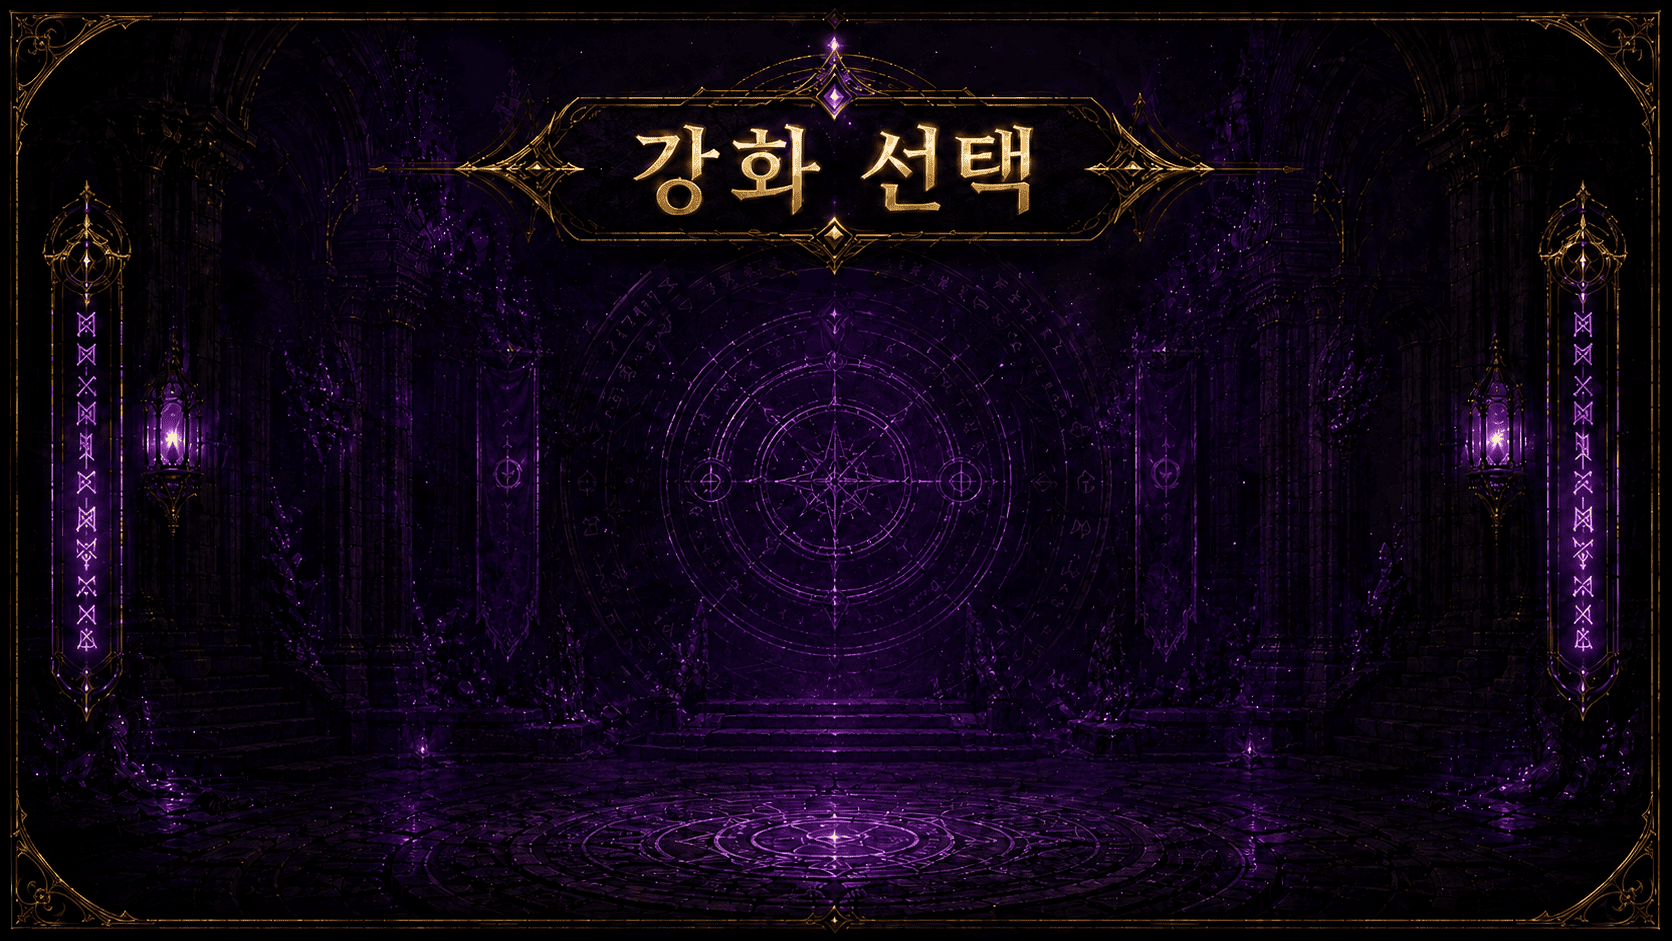
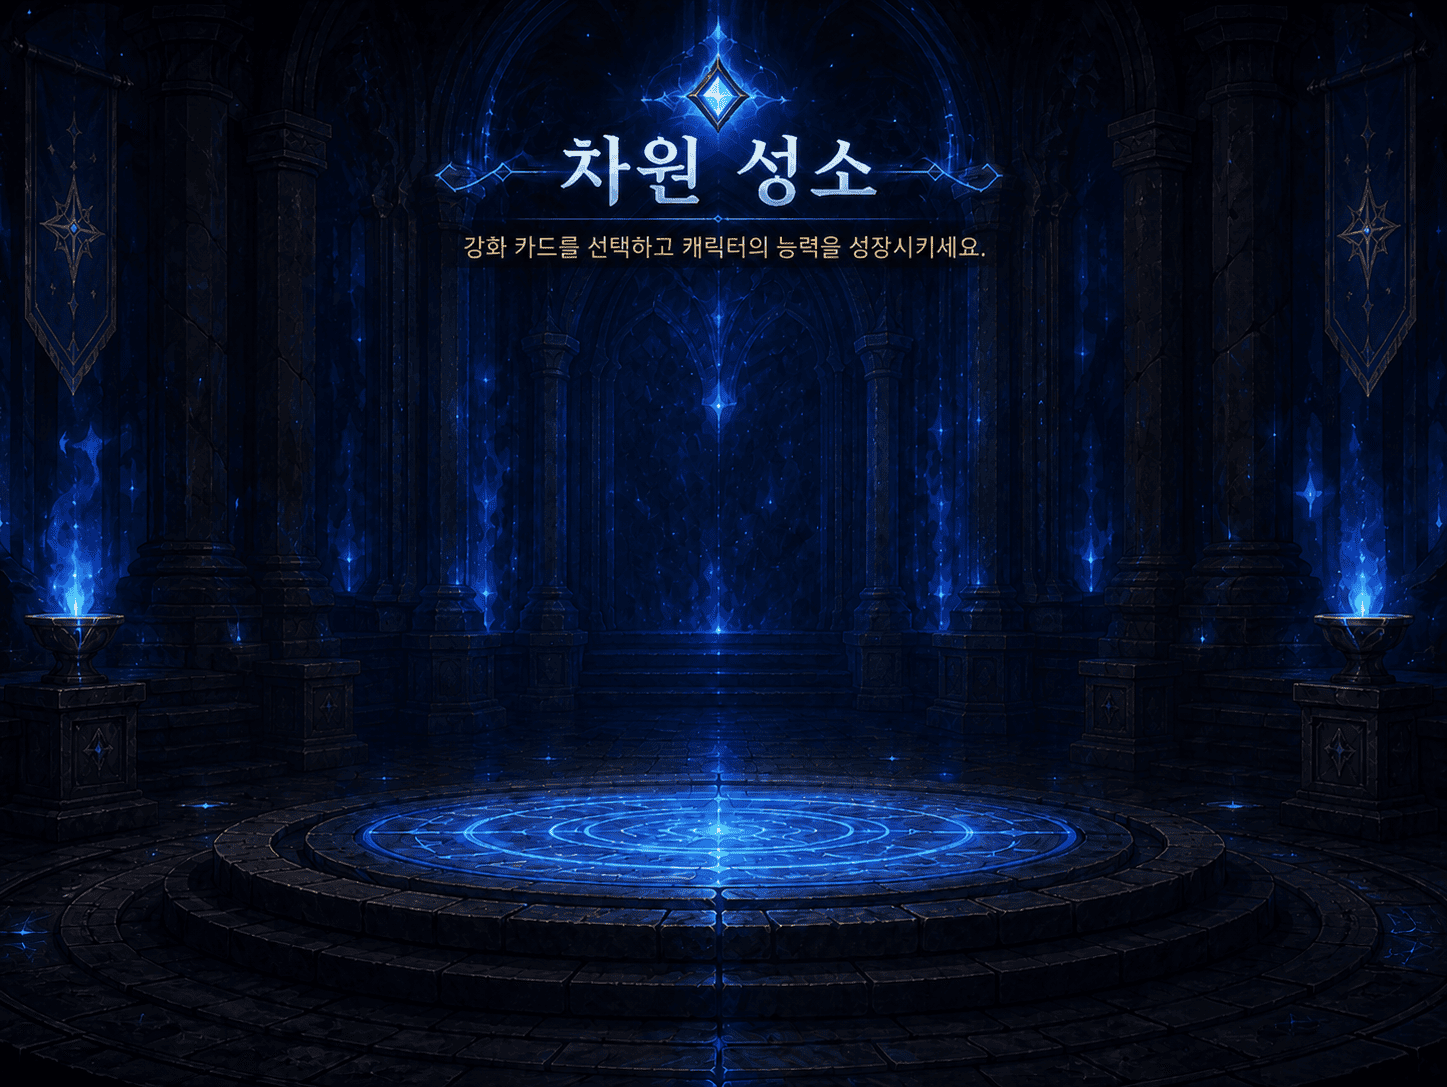
monster response

diff --git a/src/game/systems.ts b/src/game/systems.ts
@@ -2,7 +2,7 @@ import { upgrades } from '../content';
 import { playSound } from '../soundSystem';
 import { getCamera, getWorldView } from './camera';
 import { clamp, norm } from './math';
-import type { GameState, Upgrade, Vec } from './types';
+import type { EnemyKind, GameState, Upgrade, Vec } from './types';
 
 export function pickUpgrades(game: GameState) {
   game.upgrades = [...upgrades].sort(() => Math.random() - 0.5).slice(0, 3);
@@ -87,14 +87,21 @@ function spawnEnemy(game: GameState) {
   pos.x = clamp(pos.x, -game.mapWidth / 2 + 24, game.mapWidth / 2 - 24);
   pos.y = clamp(pos.y, -game.mapHeight / 2 + 24, game.mapHeight / 2 - 24);
   const stagePower = game.stage - 1 + game.stageTime / game.stageDuration;
+  const kind: EnemyKind = game.stage > 1 && Math.random() < 0.25 ? 'goblin' : 'slime';
+  const slimeHp = 28 + stagePower * 8;
+  const slimeSpeed = 88 + stagePower * 7;
+  const slimeDamage = 12 + game.time * 0.12;
+  const isGoblin = kind === 'goblin';
   game.enemies.push({
     id: game.nextId++,
     x: pos.x,
     y: pos.y,
-    r: 13,
-    hp: 28 + stagePower * 8,
-    speed: 88 + stagePower * 7,
-    kind: 'slime',
+    r: isGoblin ? 15 : 13,
+    hp: isGoblin ? slimeHp * 2 : slimeHp,
+    speed: isGoblin ? slimeSpeed * 0.8 : slimeSpeed,
+    damage: isGoblin ? slimeDamage * 1.5 : slimeDamage,
+    gemDrops: isGoblin ? 2 : 1,
+    kind,
   });
 }
 
@@ -171,7 +178,9 @@ export function updateGame(game: GameState, dt: number, inputVector: () => Vec) 
   game.player.y = clamp(game.player.y, -game.mapHeight / 2 + game.player.r, game.mapHeight / 2 - game.player.r);
 
   game.spawnClock -= dt;
-  const spawnDelay = Math.max(0.16, 0.76 - (game.stage - 1) * 0.06 - game.stageTime * 0.002);
+  const stageSpawnGrowth = Math.pow(1.05, game.stage - 1);
+  const baselineSpawnDelay = 1.0857 - game.stageTime * 0.002;
+  const spawnDelay = Math.max(0.16, baselineSpawnDelay / stageSpawnGrowth);
   while (game.spawnClock <= 0) {
     spawnEnemy(game);
     game.spawnClock += spawnDelay;
@@ -188,7 +197,7 @@ export function updateGame(game: GameState, dt: number, inputVector: () => Vec) 
     enemy.x += toPlayer.x * enemy.speed * dt;
     enemy.y += toPlayer.y * enemy.speed * dt;
     if (Math.hypot(enemy.x - game.player.x, enemy.y - game.player.y) < enemy.r + game.player.r) {
-      game.player.hp -= (12 + game.time * 0.12) * dt * game.player.damageTakenMultiplier;
+      game.player.hp -= enemy.damage * dt * game.player.damageTakenMultiplier;
       enemy.x -= toPlayer.x * 18 * dt;
       enemy.y -= toPlayer.y * 18 * dt;
     }
@@ -216,8 +225,17 @@ export function updateGame(game: GameState, dt: number, inputVector: () => Vec) 
         }
         playSound('hit');
         if (enemy.hp <= 0) {
-          game.gems.push({ x: enemy.x, y: enemy.y, value: 4, r: 5 });
-          game.texts.push({ x: enemy.x, y: enemy.y, text: '+1', life: 0.7, color: '#9ee8ff' });
+          for (let i = 0; i < enemy.gemDrops; i += 1) {
+            const angle = (Math.PI * 2 * i) / enemy.gemDrops + enemy.id * 0.73;
+            const distance = enemy.gemDrops === 1 ? 0 : 12;
+            game.gems.push({
+              x: enemy.x + Math.cos(angle) * distance,
+              y: enemy.y + Math.sin(angle) * distance,
+              value: 4,
+              r: 5,
+            });
+          }
+          game.texts.push({ x: enemy.x, y: enemy.y, text: `+${enemy.gemDrops}`, life: 0.7, color: '#9ee8ff' });
         }
         break;
       }

diff --git a/src/main.tsx b/src/main.tsx
@@ -47,6 +47,8 @@ const forestProps = new Image();
 forestProps.src = 'assets/images/maps/forest/props/forest-props.png';
 const forestSlimeAtlas = new Image();
 forestSlimeAtlas.src = 'assets/images/enemies/forest-slime-2dir.png';
+const forestGoblinAtlas = new Image();
+forestGoblinAtlas.src = 'assets/images/enemies/forest-goblin-2dir.png';
 const xpGemImage = new Image();
 xpGemImage.src = 'assets/images/items/gems/xp-gem-small.png';
 
@@ -335,6 +337,34 @@ function drawMagicBolt(ctx: CanvasRenderingContext2D, bullet: Bullet) {
 }
 
 function drawEnemy(ctx: CanvasRenderingContext2D, enemy: Enemy, game: GameState) {
+  if (enemy.kind === 'goblin' && forestGoblinAtlas.complete && forestGoblinAtlas.naturalWidth > 0) {
+    const columns = 4;
+    const rows = 2;
+    const sourceWidth = forestGoblinAtlas.naturalWidth / columns;
+    const sourceHeight = forestGoblinAtlas.naturalHeight / rows;
+    const frame = Math.floor(game.time * 6 + enemy.id * 0.31) % columns;
+    const row = enemy.x > game.player.x ? 1 : 0;
+    const drawWidth = 72;
+    const drawHeight = 72 + Math.sin(game.time * 10 + enemy.id) * 1.5;
+
+    ctx.fillStyle = 'rgba(0, 0, 0, 0.28)';
+    ctx.beginPath();
+    ctx.ellipse(enemy.x, enemy.y + 15, 24, 7, 0, 0, Math.PI * 2);
+    ctx.fill();
+    ctx.drawImage(
+      forestGoblinAtlas,
+      Math.floor(frame * sourceWidth),
+      Math.floor(row * sourceHeight),
+      Math.ceil(sourceWidth),
+      Math.ceil(sourceHeight),
+      enemy.x - drawWidth / 2,
+      enemy.y - drawHeight * 0.78,
+      drawWidth,
+      drawHeight,
+    );
+    return;
+  }
+
   if (forestSlimeAtlas.complete && forestSlimeAtlas.naturalWidth > 0) {
     const columns = 4;
     const rows = 2;

diff --git a/src/game/types.ts b/src/game/types.ts
@@ -1,8 +1,18 @@
 export type Vec = { x: number; y: number };
 
-export type EnemyKind = 'slime';
+export type EnemyKind = 'slime' | 'goblin';
 
-export type Enemy = { id: number; x: number; y: number; r: number; hp: number; speed: number; kind: EnemyKind };
+export type Enemy = {
+  id: number;
+  x: number;
+  y: number;
+  r: number;
+  hp: number;
+  speed: number;
+  damage: number;
+  gemDrops: number;
+  kind: EnemyKind;
+};
 
 export type Bullet = {
   x: number;

diff --git a/docs/balance.md b/docs/balance.md
@@ -125,6 +125,19 @@ Use this section as the baseline when the user asks to raise, lower, speed up, s
 | Contact pushback | `18 * dt` | `src/game/systems.ts` | Small separation push while touching player. |
 | Defense | None | Current design | Enemies currently do not have armor or damage reduction. |
 
+### Enemy: Goblin
+
+| Value | Current Value | Code Location | Notes |
+| --- | ---: | --- | --- |
+| Enemy ID | `goblin` | `src/game/types.ts`, `src/game/systems.ts` | Appears from stage 2 onward. |
+| Spawn ratio | `1 goblin : 3 slimes` | `src/game/systems.ts` | Implemented as a 25% goblin chance from stage 2 onward. |
+| Collision radius | `15` | `src/game/systems.ts` | Slightly larger than slime. |
+| HP | `slime HP * 2` | `src/game/systems.ts` | Uses the current scaled slime HP. |
+| Movement speed | `slime speed * 0.8` | `src/game/systems.ts` | Slower than slime. |
+| Contact damage | `slime damage * 1.5` | `src/game/systems.ts` | Higher than slime. |
+| Gem drop count | `2` | `src/game/systems.ts` | Drops two XP/currency gems when defeated. |
+| Defense | None | Current design | Enemies currently do not have armor or damage reduction. |
+
 ### Spawning And Stage Pressure
 
 | Value | Current Value | Code Location | Notes |
@@ -134,7 +147,9 @@ Use this section as the baseline when the user asks to raise, lower, speed up, s
 | Map height | `1600` | `src/game/state.ts` | Bounded arena height. |
 | Spawn margin | `90` | `src/game/systems.ts` | Spawn attempt is just outside the camera view. |
 | Minimum spawn delay | `0.16` seconds | `src/game/systems.ts` | Spawn delay cannot go below this. |
-| Spawn delay formula | `0.76 - (stage - 1) * 0.06 - stageTime * 0.002` | `src/game/systems.ts` | Higher stages and later stage time spawn faster. |
+| Stage 1 spawn amount | `100%` current baseline | `src/game/systems.ts` | This is the baseline for future spawn-count requests. |
+| Per-stage spawn growth | `+5%` per stage | `src/game/systems.ts` | Each stage uses `1.05 ^ (stage - 1)`. |
+| Spawn delay formula | `(1.0857 - stageTime * 0.002) / (1.05 ^ (stage - 1))` | `src/game/systems.ts` | Current stage 1 pacing is now treated as the baseline. Higher spawn multiplier means shorter delay and more monsters. |
 | Enemy cleanup range | `1800` | `src/game/systems.ts` | Enemies farther than this from player are removed. |
 | Projectile cleanup range | `1300` | `src/game/systems.ts` | Projectiles farther than this from player are removed. |
 
@@ -143,6 +158,7 @@ Use this section as the baseline when the user asks to raise, lower, speed up, s
 | Value | Current Value | Code Location | Notes |
 | --- | ---: | --- | --- |
 | Gem drop count per slime | `1` | `src/game/systems.ts` | One gem object is created when a slime dies. |
+| Gem drop count per goblin | `2` | `src/game/systems.ts` | Two gem objects are created when a goblin dies. |
 | Gem XP value | `4` | `src/game/systems.ts` | Stored as gem `value`. |
 | Gem currency value | `1` | `src/game/systems.ts` | Each collected gem adds 1 upgrade currency. |
 | Gem collision radius | `5` | `src/game/systems.ts` | Gem pickup radius before adding player radius. |

diff --git a/docs/content.md b/docs/content.md
@@ -3,7 +3,7 @@
 ## Current Content
 - Character: `caiden`
 - Weapon: `magic-staff`
-- Enemy kind: `slime`
+- Enemy kinds: `slime`, `goblin`
 - Map theme: forest
 - Item: `xp-gem-small`
 - Save mode: local test by default, optional Supabase cloud save through security settings.
@@ -35,8 +35,19 @@ When adding a weapon, update:
 ## Enemies
 Current enemy type:
 - `slime`: Basic chasing enemy.
+- `goblin`: Slower but tougher forest enemy. Appears from stage 2 onward.
 
-Current slime drop:
+Current enemy drops:
+- `slime`: Drops 1 `xp-gem-small`.
+- `goblin`: Drops 2 `xp-gem-small`.
+
+Current enemy spawn rules:
+- Stage 1 only spawns slimes.
+- From stage 2 onward, goblins appear at about a 1 goblin per 3 slimes ratio.
+
+Current enemy assets:
+- `slime`: `public/assets/images/enemies/forest-slime-2dir.png`
+- `goblin`: `public/assets/images/enemies/forest-goblin-2dir.png`
 - `xp-gem-small`: XP and upgrade-currency gem rendered from `public/assets/images/items/gems/xp-gem-small.png`.
 
 When adding enemies, update:

diff --git a/docs/assets.md b/docs/assets.md
@@ -13,6 +13,13 @@ Example:
 | --- | --- | --- | --- |
 | XP gem small | `public/assets/images/items/gems/xp-gem-small.png` | `assets/images/items/gems/xp-gem-small.png` | Dropped by defeated monsters. Grants XP and upgrade currency when collected. |
 
+## Enemy Assets
+
+| Asset | File Path | Runtime Path | Used For |
+| --- | --- | --- | --- |
+| Forest slime | `public/assets/images/enemies/forest-slime-2dir.png` | `assets/images/enemies/forest-slime-2dir.png` | Basic stage enemy. |
+| Forest goblin | `public/assets/images/enemies/forest-goblin-2dir.png` | `assets/images/enemies/forest-goblin-2dir.png` | Slower, tougher stage enemy that appears after stage 1. |
+
 ## Notes
 - XP gems are currently drawn on the canvas in `src/main.tsx`.
 - If a gem image is not loaded yet, the code falls back to a simple drawn crystal shape.

diff --git a/docs/gameplay.md b/docs/gameplay.md
@@ -20,6 +20,8 @@ The main loop is:
 - The game should use fixed stages instead of one endless timer.
 - The current first-pass stage duration is 30 seconds.
 - Stage maps should have a limited size instead of behaving like an infinite world.
+- Stage 1 is the baseline monster-count reference.
+- Each new stage should spawn about 5% more monsters than the previous stage.
 - When a stage ends, combat pauses and the player enters a waiting-room ability selection.
 - The waiting room should use a temporary custom layout instead of the existing ability-select asset screen.
 - When the next stage starts, player HP is fully restored.

diff --git a/docs/task-notes.md b/docs/task-notes.md
@@ -37,3 +37,4 @@ The user may later refine:
 - Code structure has started moving away from one large `src/main.tsx`: content now lives in `src/content/`, shared types and gameplay systems live in `src/game/`.
 - Waiting-room upgrade choices now need a reroll flow: spend gems to redraw choices, with the cost increasing by 1 per reroll during the same visit.
 - Stage maps are now bounded rather than infinite. Starting a new stage restores HP to full, and waiting-room upgrades can be purchased multiple times before manually continuing.
+- Stage spawn pacing is now explicit: the current stage 1 monster count is the baseline, then each stage increases monster count by 5% over the previous stage.